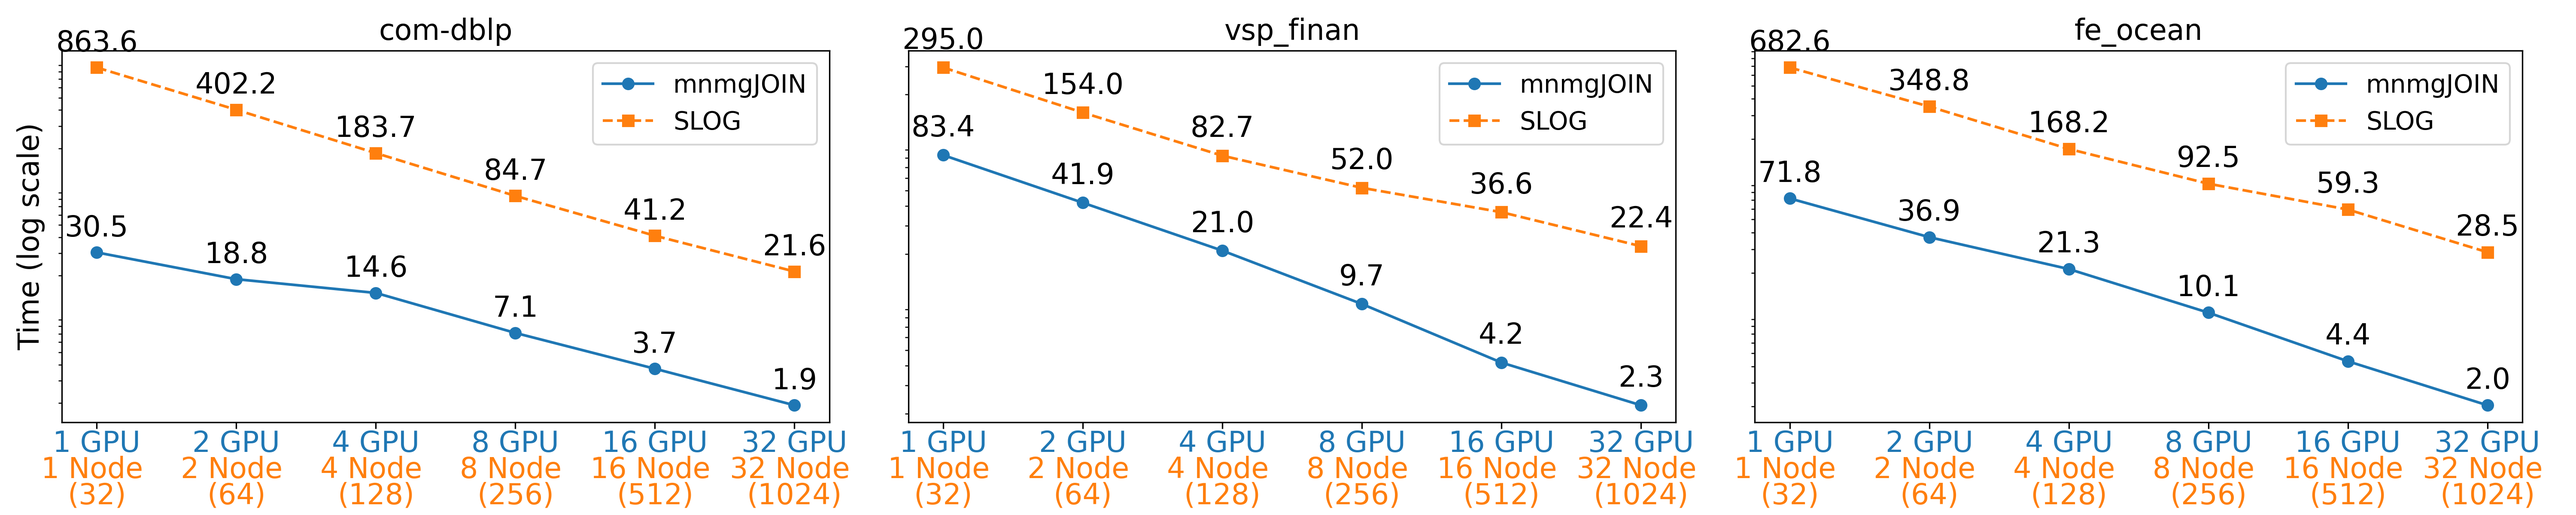
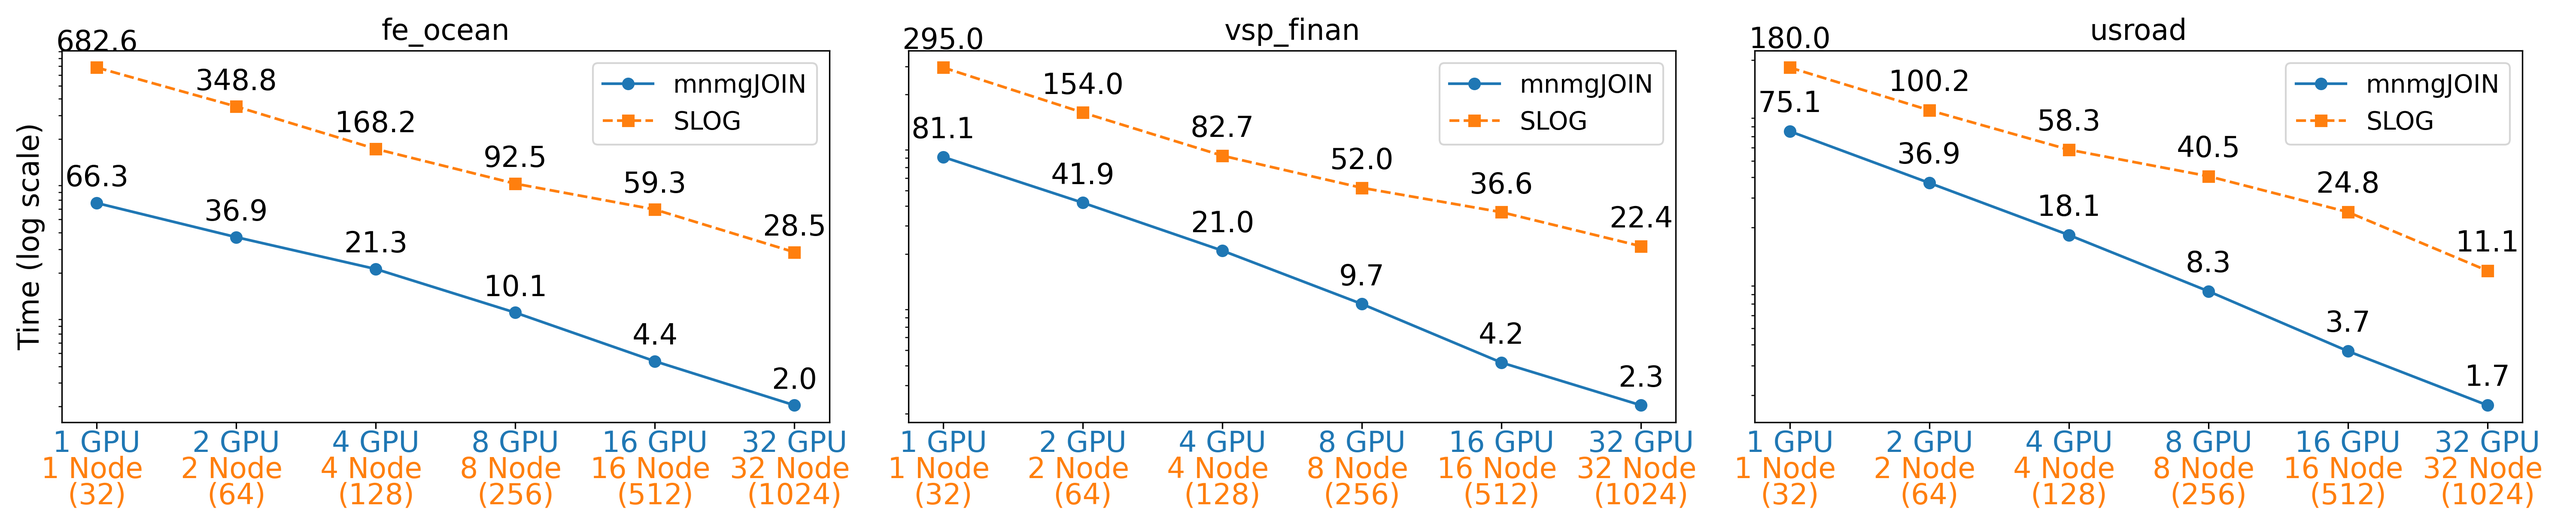
added 1 gpu check

diff --git a/generate_graphs.py b/generate_graphs.py
@@ -366,7 +366,8 @@ def plot_technique_breakdown(filepath, output_file='technique_breakdown.png'):
 
         # Titles and labels
         ax.set_title(f'{technique}', fontsize=14)
-        ax.legend(handles=legend_handles + [line], labels=legend_labels + ['Total Time'], fontsize=10, frameon=True)
+        if idx == 3:
+            ax.legend(handles=legend_handles + [line], labels=legend_labels + ['Total Time'], fontsize=10, frameon=True)
 
     # Add a common y-axis label
     fig.text(0.0, 0.5, 'Time (s)', va='center', rotation='vertical', fontsize=12)
@@ -384,15 +385,15 @@ def plot_technique_breakdown(filepath, output_file='technique_breakdown.png'):
 if __name__ == "__main__":
     warnings.simplefilter(action='ignore', category=FutureWarning)
 
-    slog_vs_mnmgjoin("drawing/charts/tc_mnmgjoin_slog.csv", "drawing/charts/mnmgJOIN_slog.png")
+    # slog_vs_mnmgjoin("drawing/charts/tc_mnmgjoin_slog.csv", "drawing/charts/mnmgJOIN_slog.png")
     # plot_breakdown_chart_single_figure("drawing/charts/tc_breakdown.csv", "drawing/charts/", "tc")
 
 
     # plot_technique_total_time("drawing/charts/single_join_strong.csv", "drawing/charts/single_join_strong.png", "Strong scaling, 10M tuples (range 90K)")
     # plot_technique_total_time("drawing/charts/single_join_weak.csv", "drawing/charts/single_join_weak.png", "Weak scaling, 10M tuples/rank (range 50K/rank)")
 
-    # plot_technique_breakdown("drawing/charts/single_join_strong.csv", "drawing/charts/single_join_strong_breakdown.png")
-    # plot_technique_breakdown("drawing/charts/single_join_weak.csv", "drawing/charts/single_join_weak_breakdown.png")
+    plot_technique_breakdown("drawing/charts/single_join_strong.csv", "drawing/charts/single_join_strong_breakdown.png")
+    plot_technique_breakdown("drawing/charts/single_join_weak.csv", "drawing/charts/single_join_weak_breakdown.png")
 
-    plot_total_chart("drawing/charts/sg.csv", "drawing/charts/sg.png", "SG")
-    plot_total_chart("drawing/charts/wcc.csv", "drawing/charts/wcc.png", "WCC")
+    # plot_total_chart("drawing/charts/sg.csv", "drawing/charts/sg.png", "SG")
+    # plot_total_chart("drawing/charts/wcc.csv", "drawing/charts/wcc.png", "WCC")

diff --git a/README.md b/README.md
@@ -563,8 +563,114 @@ CC sg.cu -o sg_interactive.out -O3
 CC wcc.cu -o wcc_interactive.out
 CC single_join.cu -o single_join_interactive.out 
 
+# TC
+
 mpiexec --np 1 --ppn 4 --depth=1 --cpu-bind depth ./set_affinity_gpu_polaris.sh ./tc_interactive.out data/com-dblpungraph.bin 0 1 1
-            printf("| Initialization | File I/O | Hashtable | Join | Buffer preparation | Communication | Deduplication | Merge | Finalization | Output |\n");
+# Input,# Process,# Iterations,# TC,Total Time,Join,Buffer preparation,Communication,Deduplication,Merge,Initialization,Hashtable,Finalization,Clear,File I/O
+1049866,1,0,1911754892,13.5791,0.5237,0.0000,0.0000,2.8665,9.5969,0.0056,0.0002,0.4026,0.1836,23.5706
+
+# fe_ocean
+mpiexec --np 1 --ppn 4 --depth=1 --cpu-bind depth ./set_affinity_gpu_polaris.sh ./tc_interactive.out data/data_409593.bin 0 1 1
+# Input,# Process,# Iterations,# TC,Total Time,Join,Buffer preparation,Communication,Deduplication,Merge,Initialization,Hashtable,Finalization,Clear,File I/O
+409593,1,0,1669750513,66.3362,0.3252,0.0000,0.0000,1.7587,63.1211,0.0051,0.0001,0.0007,1.1252,0.0741
+
+mpiexec --np 1 --ppn 4 --depth=1 --cpu-bind depth ./set_affinity_gpu_polaris.sh ./tc_interactive.out data/vsp_finan512_scagr7-2c_rlfddd.bin 0 1 1
+# Input,# Process,# Iterations,# TC,Total Time,Join,Buffer preparation,Communication,Deduplication,Merge,Initialization,Hashtable,Finalization,Clear,File I/O
+552020,1,0,910070918,81.1381,0.4436,0.0000,0.0000,1.0574,77.9614,0.0058,0.0001,0.1897,1.4800,1.0853
+
+#usroad
+mpiexec --np 1 --ppn 4 --depth=1 --cpu-bind depth ./set_affinity_gpu_polaris.sh ./tc_interactive.out data/data_165435.bin 0 1 1
+# Input,# Process,# Iterations,# TC,Total Time,Join,Buffer preparation,Communication,Deduplication,Merge,Initialization,Hashtable,Finalization,Clear,File I/O
+165435,1,0,871365688,75.0745,0.2156,0.0000,0.0000,0.5381,72.6970,0.0050,0.0001,0.1736,1.4450,1.0215
+
+#SF
+mpiexec --np 1 --ppn 4 --depth=1 --cpu-bind depth ./set_affinity_gpu_polaris.sh ./tc_interactive.out data/data_223001.bin 0 1 1
+# Input,# Process,# Iterations,# TC,Total Time,Join,Buffer preparation,Communication,Deduplication,Merge,Initialization,Hashtable,Finalization,Clear,File I/O
+223001,1,0,80498014,2.4097,0.0850,0.0000,0.0000,0.1100,2.0278,0.0050,0.0001,0.0330,0.1487,0.1558
+
+# GNUTELLA31
+mpiexec --np 1 --ppn 4 --depth=1 --cpu-bind depth ./set_affinity_gpu_polaris.sh ./tc_interactive.out data/data_147892.bin 0 1 1
+# Input,# Process,# Iterations,# TC,Total Time,Join,Buffer preparation,Communication,Deduplication,Merge,Initialization,Hashtable,Finalization,Clear,File I/O
+147892,1,0,884179859,4.7520,0.1722,0.0000,0.0000,0.8397,3.4447,0.0050,0.0001,0.1806,0.1095,38.1793
+
+# SG
+
+# fe_body
+mpiexec --np 1 --ppn 4 --depth=1 --cpu-bind depth ./set_affinity_gpu_polaris.sh ./sg_interactive.out data/data_163734.bin 0 1 1
+# Input,# Process,# Iterations,# TC,Total Time,Join,Buffer preparation,Communication,Deduplication,Merge,Initialization,Hashtable,Finalization,Clear,File I/O
+163734,1,125,408443204,9.0841,0.3276,0.0000,0.1607,1.6684,6.6504,0.0049,0.0001,0.0786,0.1934,0.5030
+
+# loc
+mpiexec --np 1 --ppn 4 --depth=1 --cpu-bind depth ./set_affinity_gpu_polaris.sh ./sg_interactive.out data/data_214078.bin 0 1 1
+# Input,# Process,# Iterations,# TC,Total Time,Join,Buffer preparation,Communication,Deduplication,Merge,Initialization,Hashtable,Finalization,Clear,File I/O
+214078,1,18,92398050,1.6583,0.2928,0.0000,0.0104,1.2737,0.0523,0.0049,0.0001,0.0013,0.0228,0.1682
+
+# fe sphere
+mpiexec --np 1 --ppn 4 --depth=1 --cpu-bind depth ./set_affinity_gpu_polaris.sh ./sg_interactive.out data/data_49152.bin 0 1 1
+# Input,# Process,# Iterations,# TC,Total Time,Join,Buffer preparation,Communication,Deduplication,Merge,Initialization,Hashtable,Finalization,Clear,File I/O
+49152,1,127,205814096,3.5514,0.1622,0.0000,0.0816,0.7107,2.4470,0.0057,0.0001,0.0433,0.1009,0.3050
+
+# ca hep
+mpiexec --np 1 --ppn 4 --depth=1 --cpu-bind depth ./set_affinity_gpu_polaris.sh ./sg_interactive.out data/data_51971.bin 0 1 1
+# Input,# Process,# Iterations,# TC,Total Time,Join,Buffer preparation,Communication,Deduplication,Merge,Initialization,Hashtable,Finalization,Clear,File I/O
+51971,1,9,74618689,0.5951,0.0954,0.0000,0.0051,0.4570,0.0205,0.0056,0.0001,0.0011,0.0102,0.1419
+
+# sf
+mpiexec --np 1 --ppn 4 --depth=1 --cpu-bind depth ./set_affinity_gpu_polaris.sh ./sg_interactive.out data/data_223001.bin 0 1 1
+# Input,# Process,# Iterations,# TC,Total Time,Join,Buffer preparation,Communication,Deduplication,Merge,Initialization,Hashtable,Finalization,Clear,File I/O
+223001,1,269,382418182,14.7353,0.2077,0.0000,0.2896,0.5335,13.3046,0.0052,0.0001,0.0749,0.3198,0.4732
+
+# ego
+mpiexec --np 1 --ppn 4 --depth=1 --cpu-bind depth ./set_affinity_gpu_polaris.sh ./sg_interactive.out data/data_88234.bin 0 1 1
+# Input,# Process,# Iterations,# TC,Total Time,Join,Buffer preparation,Communication,Deduplication,Merge,Initialization,Hashtable,Finalization,Clear,File I/O
+88234,1,13,15018986,0.4932,0.1105,0.0000,0.0034,0.3588,0.0083,0.0048,0.0001,0.0003,0.0070,0.0826
+
+mpiexec --np 1 --ppn 4 --depth=1 --cpu-bind depth ./set_affinity_gpu_polaris.sh ./sg_interactive.out data/vsp_finan512_scagr7-2c_rlfddd.bin 0 1 1
+# Input,# Process,# Iterations,# TC,Total Time,Join,Buffer preparation,Communication,Deduplication,Merge,Initialization,Hashtable,Finalization,Clear,File I/O
+552020,1,513,864761518,90.7307,0.9394,0.0000,1.6541,3.0864,83.1478,0.0052,0.0001,0.1734,1.7243,0.9926
+
+
+# single join
+
+# strong
+MPICH_GPU_SUPPORT_ENABLED=0 mpiexec --np 1 --ppn 4 --depth=1 --cpu-bind depth ./set_affinity_gpu_polaris.sh ./single_join_interactive.out 10000001 0 1 90000
+# Input,# Process,# Iterations,# Output,Total Time,Join,Buffer preparation (data distribution),Communication (data distribution),Buffer preparation (join result),Communication (join result),Deduplication,Clear,Copy,Finalization,Initialization,File I/O,Hashtable
+10000001,1,1,1037050773,0.6538,0.1480,0.0000,0.0000,0.0000,0.0000,0.4592,0.0223,1.1291,0.0139,0.0102,0.1505,0.0002
+
+MPICH_GPU_SUPPORT_ENABLED=0 mpiexec --np 1 --ppn 4 --depth=1 --cpu-bind depth ./set_affinity_gpu_polaris.sh ./single_join_interactive.out 10000001 0 0 90000
+# Input,# Process,# Iterations,# Output,Total Time,Join,Buffer preparation (data distribution),Communication (data distribution),Buffer preparation (join result),Communication (join result),Deduplication,Clear,Copy,Finalization,Initialization,File I/O,Hashtable
+10000001,1,1,1037050773,0.6558,0.1496,0.0000,0.0000,0.0000,0.0000,0.4593,0.0225,1.1010,0.0139,0.0103,0.1505,0.0002
+
+module load craype-accel-nvidia80
+export MPICH_GPU_SUPPORT_ENABLED=1
+
+MPICH_GPU_SUPPORT_ENABLED=1 mpiexec --np 1 --ppn 4 --depth=1 --cpu-bind depth ./set_affinity_gpu_polaris.sh ./single_join_interactive.out 10000001 1 1 90000
+# Input,# Process,# Iterations,# Output,Total Time,Join,Buffer preparation (data distribution),Communication (data distribution),Buffer preparation (join result),Communication (join result),Deduplication,Clear,Copy,Finalization,Initialization,File I/O,Hashtable
+10000001,1,1,1037050773,0.6621,0.1591,0.0000,0.0000,0.0000,0.0000,0.4557,0.0227,1.1309,0.0139,0.0105,0.1505,0.0002
+
+MPICH_GPU_SUPPORT_ENABLED=1 mpiexec --np 1 --ppn 4 --depth=1 --cpu-bind depth ./set_affinity_gpu_polaris.sh ./single_join_interactive.out 10000001 1 0 90000
+# Input,# Process,# Iterations,# Output,Total Time,Join,Buffer preparation (data distribution),Communication (data distribution),Buffer preparation (join result),Communication (join result),Deduplication,Clear,Copy,Finalization,Initialization,File I/O,Hashtable
+10000001,1,1,1037050773,0.6628,0.1596,0.0000,0.0000,0.0000,0.0000,0.4557,0.0230,1.0819,0.0139,0.0104,0.1505,0.0002
+
+
+# weak
+
+MPICH_GPU_SUPPORT_ENABLED=0 mpiexec --np 1 --ppn 4 --depth=1 --cpu-bind depth ./set_affinity_gpu_polaris.sh ./single_join_interactive.out 10000000 0 1 500000
+# Input,# Process,# Iterations,# Output,Total Time,Join,Buffer preparation (data distribution),Communication (data distribution),Buffer preparation (join result),Communication (join result),Deduplication,Clear,Copy,Finalization,Initialization,File I/O,Hashtable
+10000000,1,1,199915594,0.1264,0.0268,0.0000,0.0000,0.0000,0.0000,0.0813,0.0049,0.2152,0.0028,0.0103,0.1505,0.0002
+
+MPICH_GPU_SUPPORT_ENABLED=0 mpiexec --np 1 --ppn 4 --depth=1 --cpu-bind depth ./set_affinity_gpu_polaris.sh ./single_join_interactive.out 10000000 0 0 500000
+# Input,# Process,# Iterations,# Output,Total Time,Join,Buffer preparation (data distribution),Communication (data distribution),Buffer preparation (join result),Communication (join result),Deduplication,Clear,Copy,Finalization,Initialization,File I/O,Hashtable
+10000000,1,1,199915594,0.1358,0.0293,0.0000,0.0000,0.0000,0.0000,0.0883,0.0049,0.2135,0.0028,0.0103,0.1506,0.0002
+
+MPICH_GPU_SUPPORT_ENABLED=1 mpiexec --np 1 --ppn 4 --depth=1 --cpu-bind depth ./set_affinity_gpu_polaris.sh ./single_join_interactive.out 10000000 1 1 500000
+# Input,# Process,# Iterations,# Output,Total Time,Join,Buffer preparation (data distribution),Communication (data distribution),Buffer preparation (join result),Communication (join result),Deduplication,Clear,Copy,Finalization,Initialization,File I/O,Hashtable
+10000000,1,1,199915594,0.1249,0.0265,0.0000,0.0000,0.0000,0.0000,0.0803,0.0049,0.2168,0.0028,0.0103,0.1505,0.0002
+
+MPICH_GPU_SUPPORT_ENABLED=1 mpiexec --np 1 --ppn 4 --depth=1 --cpu-bind depth ./set_affinity_gpu_polaris.sh ./single_join_interactive.out 10000000 1 0 500000
+# Input,# Process,# Iterations,# Output,Total Time,Join,Buffer preparation (data distribution),Communication (data distribution),Buffer preparation (join result),Communication (join result),Deduplication,Clear,Copy,Finalization,Initialization,File I/O,Hashtable
+10000000,1,1,199915594,0.1373,0.0302,0.0000,0.0000,0.0000,0.0000,0.0889,0.0048,0.2132,0.0028,0.0103,0.1506,0.0002
+
 
 | 1,049,866 | 1 | 31 | 1,911,754,892 |  24.8847 |   0.2070 |   0.0411 |   0.0001 |   1.1072 |   1.7247 |  16.4639 |   2.3376 |   1.5306 |   1.5136 | data/com-dblpungraph.bin_tc.bin |
 arsho::x3207c0s1b0n0 { /eagle/dist_relational_alg/arsho/mnmgJOIN }-> mpiexec --np 2 --ppn 4 --depth=1 --cpu-bind depth ./set_affinity_gpu_polaris.sh ./tc_interactive.out data/com-dblpungraph.bin 0 1 1
